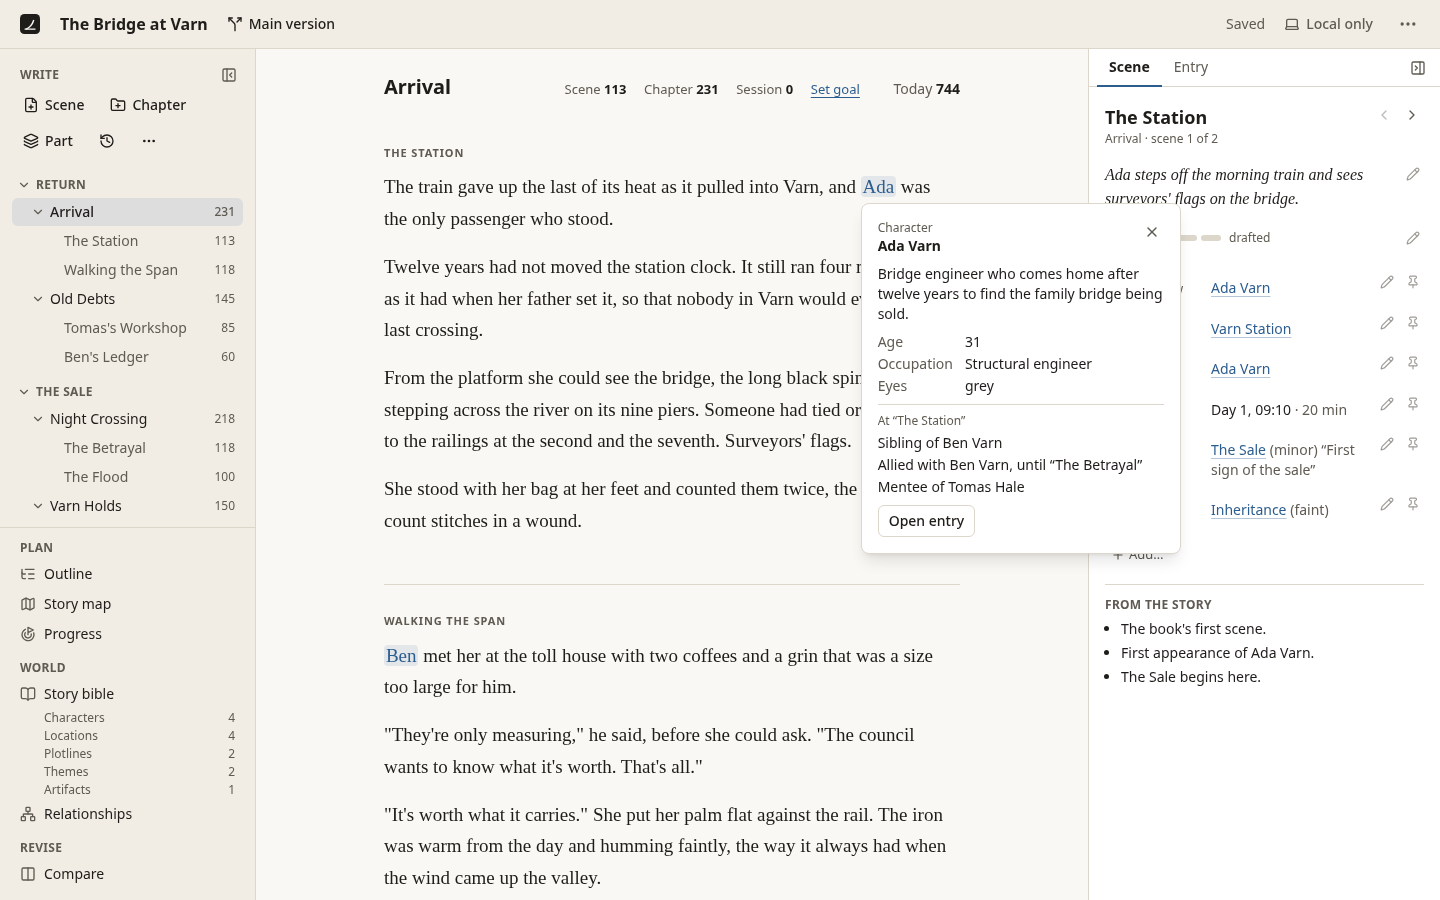
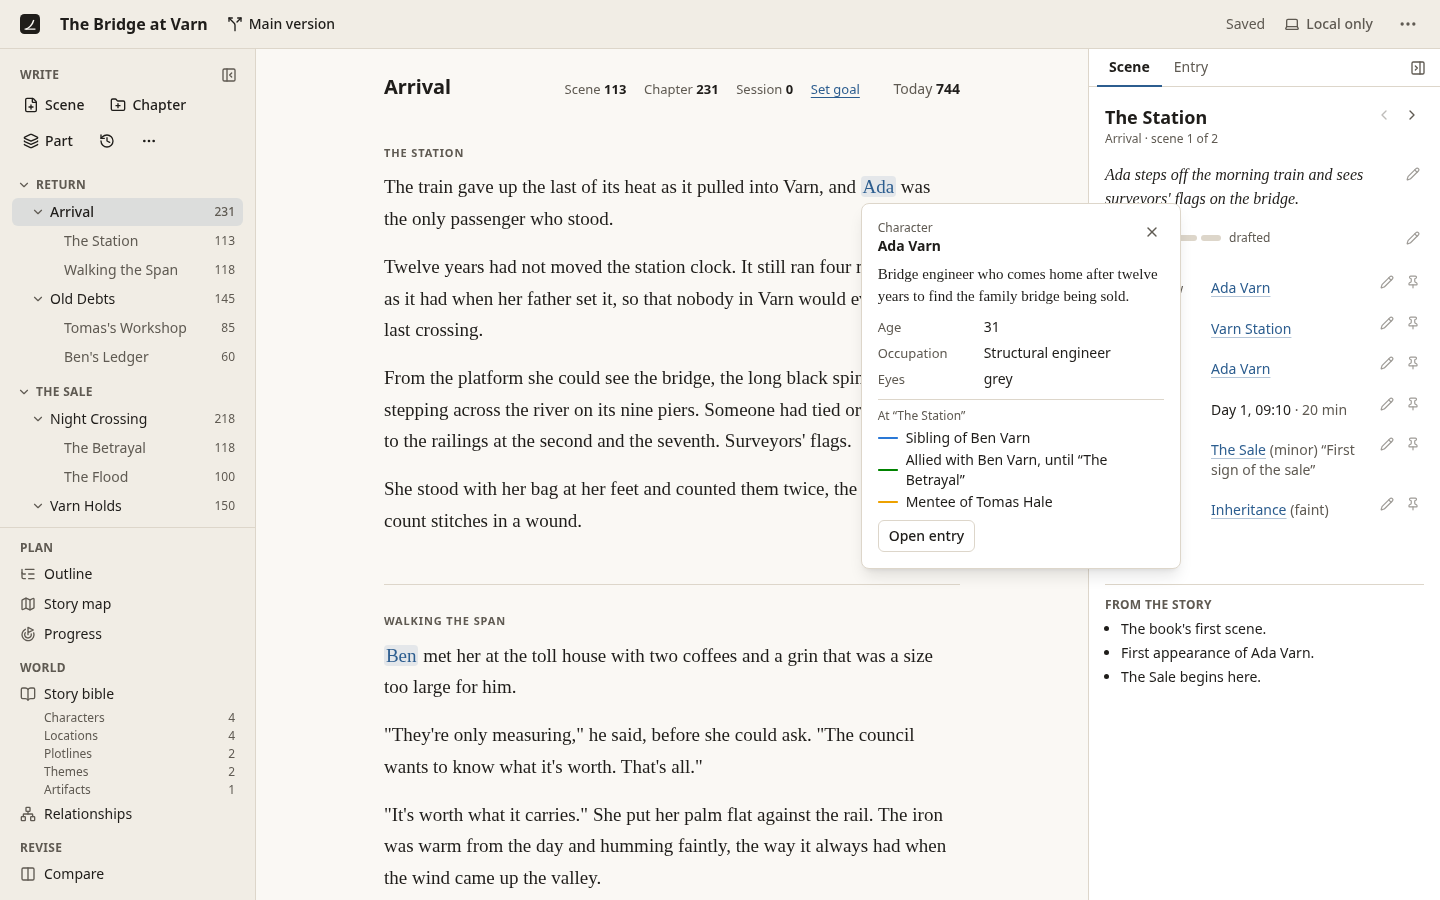
Document the story bible's profiles, gallery and relationship colours
USER.md: the gallery, the profile read first and edited in place, In
the story, the sections by type, relationships as arcs and the marker,
and choosing a kind's colour and line; the Entry tab as the profile at
the sidebar's size. README: the story bible's feature line, and the
gallery and a profile in the screenshots. All screenshots retaken (the
profile in a taller window, to show its strip and arcs).

Refs #164

Changed region(s): [[0.5938, 0.28, 0.8125, 0.6533]]

diff --git a/packages/web/e2e/screenshots.ts b/packages/web/e2e/screenshots.ts
@@ -85,7 +85,11 @@ test("drafts: versions with their checkpoints", async ({ page, app }) => {
 test("the story bible", async ({ page, app }) => {
   await open(page, app);
   await page.getByRole("navigation", { name: "Views" }).getByRole("link", { name: "Story bible" }).click();
-  await page.getByRole("main").getByRole("link", { name: "Ada Varn" }).first().click();
+  await page.waitForTimeout(500);
+  await shoot(page, "gallery");
+  await page.getByRole("main").getByRole("link", { name: /^Ada Varn/ }).first().click();
+  // Tall enough for her strip and arcs.
+  await page.setViewportSize({ width: 1440, height: 1500 });
   await page.waitForTimeout(800);
   await shoot(page, "bible");
 });

diff --git a/USER.md b/USER.md
@@ -44,7 +44,7 @@ Beside the text, the right sidebar has two tabs: **Scene** and **Entry**. **Ctrl
 
 - **Scene** is a card for the scene the caret is in: its title and place in the chapter, the synopsis, the status (idea, outlined, drafted, revised, final) as five steps, and a row for each detail it has: point of view, where, characters, when (and for how long) in story time, plotlines with their weight and beat, entries of your own types, themes and tags. Details it hasn't got yet are under **Add…**. Each row's pencil edits it in place, with the people and places pickers (and *New character “…”* to make one as you go); Enter saves a single field and Escape or **Done** returns to the row. ◀ ▶ step through the chapter's scenes without moving the caret. **From the story** lists what the rest of the book says about the scene: the first or last scene, how long after the scene before it comes (or how far back a flashback goes), first appearances, someone back after a long absence, plotlines beginning or ending, relationships starting or ending.
 - **Pins:** the pin on a row puts that detail under every scene's title in the text, as a quiet line (*Ada Varn · Day 1, 09:10 · 20 min*), sidebar showing or not. It's only shown, never written into your scene files.
-- **Entry** shows a story bible entry: choose a name on the Scene card, or *Open entry* on a mention's card. It reads like a character sheet: the summary, fields, relationships at the caret's scene, the scenes it's in (choose one to go there), notes, and *Open the full entry*. **Back** and **Forward** walk the entries you've opened; **Keep this entry here** (the pin) keeps it while you open other names. **Edit details** shows the entry's form in place; after a quick entry, the notice's **Add details** opens it so.
+- **Entry** shows a story bible entry: choose a name on the Scene card, or *Open entry* on a mention's card. It's the entry's profile at the sidebar's size, read first and edited in place just as on its page, with its strip of scenes and its relationships read at the caret's scene, and *Open the full entry*. **Back** and **Forward** walk the entries you've opened; **Keep this entry here** (the pin) keeps it while you open other names. After a quick entry, the notice's **Add details** opens it with the name ready to edit.
 
 ## Structure: parts, chapters and scenes
 
@@ -59,11 +59,19 @@ The tree on the left holds the book. **Scene**, **Chapter** and **Part** add one
 
 ## The story bible
 
-**Story bible** in the left panel lists characters, locations, plotlines, themes and any types of your own (an "Artifacts" type in the sample novel, say). Each entry has a name, other names (recognised when you type `@`), a summary, fields of your choice, tags and notes.
+**Story bible** in the left panel opens a gallery of every entry, grouped by type: characters, locations, plotlines, themes and any types of your own (an "Artifacts" type in the sample novel, say). Each card shows the summary, a fact or two, a small strip of the scenes the entry is in and how many; an entry no scene uses yet says *Not in the story yet*. Search by name or other name, and sort by first appearance, name or most scenes.
 
-Relationships (sibling of, mentor of, allied with…) live on the entries' pages, each from a scene and, if it ends, until a scene. The kinds of relationship are yours to define in `novel.yaml`. Off-page events, like a flood years before the story starts, live on the story map's **Timeline**.
+An entry opens as a profile, to read first. Each part has a pencil (or *+ Add…* while it's empty) and edits in place: the name, other names (recognised when you type `@`), tags, a portrait (its path in the repository), the summary, fields of your choice (*+ Add a field*; rename or remove one from its pencil) and the notes, which you write in straight away. Enter saves, Escape leaves it as it was. Below them:
 
-![A character's page in the story bible](docs/screenshots/bible.png)
+- **In the story**: every scene in reading order, under its part and chapter names, marked where the entry carries the scene (a character's point of view, a plotline's major beat, a theme at its strongest), is in it, or is only mentioned. Each mark opens its scene. Beneath it: first and last appearance, how many scenes, the longest absence, and the off-page events it's part of.
+- **By type**: a location's visitors and the story time its scenes span; a plotline's beats in reading order, with *+ Write the beat* where a scene hasn't said what happens (written into that scene), the scenes it skips, who's in it and where; a theme's strength scene by scene.
+- **Relationships** as arcs over the same scenes: each from the scene it starts to the scene it ends, in its kind's colour and line, with its name on the bar. The marker under them (arrow keys, or a click) reads what holds at one scene. A bar opens *Change at…*, *End at…* and *Remove…*; *+ Add a relationship* makes a new one.
+
+The kinds of relationship are listed at the end of the gallery. **Edit** one to rename it or choose its colour, from the eight of the app's chart palette (each readable in light and dark, and for colour-blind readers), and its line: solid, dashed or dotted. A new kind takes a colour no other kind uses, so adding one never repaints the rest; the same colours are used in the graph, the arcs, the cards and the diagrams on github.com. Off-page events, like a flood years before the story starts, live on the story map's **Timeline**.
+
+![A character's profile: the strip of scenes and the relationships as arcs](docs/screenshots/bible.png)
+
+![The story bible as a gallery of cards](docs/screenshots/gallery.png)
 
 ## Story map and relationships
 

diff --git a/README.md b/README.md
@@ -10,7 +10,7 @@
 
 - **A distraction-free editor** for scenes, or a whole chapter as one continuous text while each scene stays its own file. Focus mode, typewriter scrolling, word counts for the scene, chapter and session, and a session goal.
 - **Mentions.** Type `@` and a few letters to mention a character, place or anything else in the story bible. Hover over a mention (or press Alt+Enter) for a card showing who they are and how they relate to everyone else *at that point in the story*.
-- **A sidebar beside the text**: the scene the caret is in as a readable card, each detail edited in place, with what the rest of the book says about it ("8 h after “The Station”", "First appearance of Ben Varn"); details pinned under every scene's title; and any story bible entry as a sheet to read, with Back and Forward. Ctrl+Shift+\\ hides and shows it.
+- **A sidebar beside the text**: the scene the caret is in as a readable card, each detail edited in place, with what the rest of the book says about it ("8 h after “The Station”", "First appearance of Ben Varn"); details pinned under every scene's title; and any story bible entry as its profile, with Back and Forward. Ctrl+Shift+\\ hides and shows it.
 - **Quick entry.** Create a new character, location or entry of your own type straight from the `@` menu or the Scene card, without leaving the scene.
 - **Spell check** that knows your characters' names, with a per-novel dictionary.
 - **Progress** from the book's own history: words added and cut each day, the length against a target and deadline with a projected finish, a daily goal with a streak, and which chapters and scenes run long or short.
@@ -31,13 +31,17 @@
 ### Plan
 
 - **Manuscript structure**: parts, chapters and scenes in a tree you can rearrange with the keyboard or by dragging, and an **outline** of every scene as a table or as index cards, filtered by point of view, character, plotline or status.
-- **A story bible** of characters, locations, plotlines, themes and types you invent, with relationships that start and end at particular scenes, drawn as a **relationship graph** with a slider to step through the story and watch alliances change.
+- **A story bible** of characters, locations, plotlines, themes and types you invent, as a gallery of cards and a profile for each entry, read first and edited in place: where it is across the book, scene by scene; a plotline's beats (and the ones still to write); and its relationships as arcs that start and end at particular scenes, in colours you choose from a palette that stays readable for colour-blind readers. The same relationships are drawn as a **relationship graph** with a slider to step through the story and watch alliances change.
 - **A story map** of the story's elements against its scenes, all exportable as SVG (and some as Mermaid):
   - **plotlines** showing each one's beats scene by scene, and where one goes quiet;
   - **presence** of characters and themes in each scene;
   - a **timeline** setting story time against reading order, flashbacks and off-page events included.
 
 <table>
+  <tr>
+    <td><img src="docs/screenshots/gallery.png" alt="The story bible as a gallery of cards, each with a strip of the scenes the entry is in"></td>
+    <td><img src="docs/screenshots/bible.png" alt="Ada Varn's profile: her scenes in reading order and her relationships as arcs"></td>
+  </tr>
   <tr>
     <td><img src="docs/screenshots/outline-cards.png" alt="The outline as cards: scenes grouped by chapter"></td>
     <td><img src="docs/screenshots/relationships.png" alt="The relationship graph at the first scene"></td>
